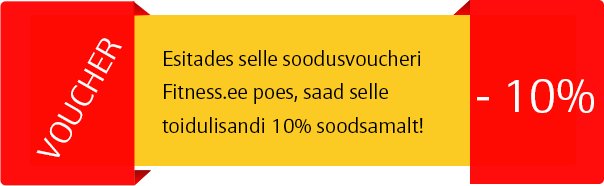
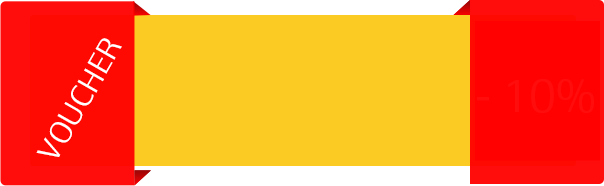
new stuff!!!

diff --git a/js/app.js b/js/app.js
@@ -196,7 +196,7 @@ var app = {
 				});
 				if (!localStorage.getItem('fitNotFirstTime')) {
 					app.downloadPics('categories', cats);
-					localStorage.setItem('fitNotFirstTime', true);
+					//localStorage.setItem('fitNotFirstTime', true);
 				}
 				
 			}, 'jsonp');
@@ -1048,11 +1048,13 @@ var app = {
 			   		$('#video').find('h3:first').html(exercise['name_' + lang]);
 			   		$('#video').find('.text_wrap').html(exercise['name_' + description]);
 			   	}
-				if (exercise.video && exercise.video != "0") {
-					$('#video').find('.video-container').html('<video id="video" height="41%" width="100%" controls="" preload="" autoplay="" poster="' + app.serverUrl + 'videos/' + exercise.id + '.png" onclick="this.play();" onload="this.play();"><source src="' + app.serverUrl + 'videos/' + exercise.id + '.mp4" poster="' + app.serverUrl + 'videos/' + exercise.id + '.png"></video>');
-				} else {
-					$('#video').find('.video-container').html('<video id="video" height="41%" width="100%" controls="" preload="" autoplay="" poster="' + app.serverUrl + 'videos/' + exercise.id + '.png" onclick="this.play();" onload="this.play();"><source src="' + app.serverUrl + 'videos/' + exercise.id + '.mp4" poster="' + app.serverUrl + 'videos/' + exercise.id + '.png"></video>');
-				}
+				if (exercise.video && exercise.video != "0") 
+					videoLink = sPath + 'videos/' + exercise + '.mp4';
+				else
+					videoLink = app.serverUrl + 'videos/' + exercise.id + '.mp4';
+					
+					$('#video').find('.video-container').html('<video id="video" height="41%" width="100%" controls="" preload="" autoplay="" poster="' + sPath + 'exercises/' + exercise.id + '.jpg' + '" onclick="this.play();" onload="this.play();"><source src="' + videoLink + '" poster="' + sPath + 'exercises/' + exercise.id + '.jpg' + '"></video>');
+					
 				
 			}, function(tx, results) {
 				console.error('Error in selecting test result');
@@ -1071,7 +1073,7 @@ var app = {
 		template = $('.item-template');
 		content1 = $('.items-container1');
 		content2 = $('.items-container2');
-		
+		downloadedVideos = [];
 		db.transaction(function(tx) {
 			query = 'SELECT id FROM EXERCISES WHERE video = "1"';
 			//console.log(query);
@@ -1079,7 +1081,7 @@ var app = {
 				var len = results.rows.length, i;
 				for (i = 0; i < len; i++) {
 					item = results.rows.item(i);
-					downloadedVideos.push(item.id);
+					downloadedVideos.push(parseInt(item.id));
 				}
 				
 				db.transaction(function(tx) {
@@ -1091,17 +1093,27 @@ var app = {
 						for (i = 0; i < len; i++) {
 							item = results.rows.item(i);
 							var exercises = JSON.parse(item.exercises);
-							dlExercises = 0;
+							var dlExercises = 0;
+							var exExercises = 0;
 							$.each(exercises, function(i, day) {
 								$.each(day, function(j, exercise) {
 									dlExercises = dlExercises+1;
+									if((downloadedVideos.indexOf(parseInt(exercise.id)) > -1)) {
+										exExercises = exExercises+1;
+									}
 								});
 							});
 							
 							template.find('.downloadtitle').html(item.name);
-				   			template.find('.downloadcircle').find('span').html('0/' + dlExercises);
+				   			template.find('.downloadcircle').find('span').html(exExercises + '/' + dlExercises);
 				   			template.find('img').attr('src', app.serverUrl + 'pics/categories/2.jpg');
-				   			template.find('h4').attr('data-id', item.id).attr('data-type', 'package');
+				   			template.find('.nobg_item').attr('data-id', item.id).attr('data-type', 'package');
+				   			if(exExercises == dlExercises)
+				   				template.find('.nobg_item').html('<img src="i/icon_ok.png" alt="">').removeClass('arrow');
+				   			else if(exExercises == 0 || exExercises == '0') 
+				   				template.find('.nobg_item').html('<h4>Alusta laadimist</h4>').addClass('arrow');
+				   			else
+				   				template.find('.nobg_item').html('<h4>Jätka laadimist</h4>').addClass('arrow');
 					   		content1.append(template.html());
 							
 						}
@@ -1116,9 +1128,10 @@ var app = {
 				});
 		   		
 		   		setTimeout(function() {
-			   		$('.items-container1, .items-container2').find('h4').click(function(e) {
+			   		$('.items-container1, .items-container2').find('.nobg_item').click(function(e) {
+			   			console.log($(this).data('type') + ' ja ' + $(this).data('id'));
 			   			app.downloadExerciseVideos($(this).data('type'), $(this).data('id'));
-				   		$(this).html('Laen..');
+				   		$(this).html('<img src="i/icon_pause.png" alt="">').removeClass('arrow');
 			   		});
 		   		}, 800);
 				
@@ -1142,7 +1155,13 @@ var app = {
 					template.find('.downloadtitle').html(item.name);
 		   			template.find('.downloadcircle').find('span').html(result.total + '/' + item.total);
 		   			template.find('img').attr('src', app.serverUrl + 'pics/categories/' + item.cat_id + '.jpg');
-		   			template.find('h4').attr('data-id', item.cat_id).attr('data-type', 'category');
+		   			template.find('.nobg_item').attr('data-id', item.cat_id).attr('data-type', 'category');
+		   			if(result.total == item.total)
+		   				template.find('.nobg_item').html('<img src="i/icon_ok.png" alt="">').removeClass('arrow');
+		   			else if(result.total == 0 || result.total == '0') 
+		   				template.find('.nobg_item').html('<h4>Alusta laadimist</h4>').addClass('arrow');
+		   			else
+		   				template.find('.nobg_item').html('<h4>Jätka laadimist</h4>').addClass('arrow');
 			   		content2.append(template.html());
 					
 				}, function(tx, results) {
@@ -1164,6 +1183,7 @@ var app = {
 		//downloadedVideos = localStorage.getObject('fitExerciseVideos');
 		//if(!downloadedVideos)
 		//	downloadedVideos = [];
+		var _exercises = [];
 		if(type == 'package') {
 			db.transaction(function(tx) {
 				query = 'SELECT * FROM TRAININGS WHERE id = ' + id + '';
@@ -1174,10 +1194,11 @@ var app = {
 					$.each(exercises, function(i, day) {
 						$.each(day, function(j, exercise) {
 							//if not downloaded
-							app.downloadExerciseVideo(exercise.id, type, id);
+							_exercises.push(exercise.id);
 							
 						});
 					});
+					app.downloadExerciseVideo(_exercises, 'package', id);
 				}, function(tx, results) {
 					console.error('Error in selecting test result');
 					console.log(tx);
@@ -1195,9 +1216,10 @@ var app = {
 				tx.executeSql(query, [], function(tx, results) {
 					var len = results.rows.length, i;
 					for (i = 0; i < len; i++) {
-						item = results.rows.item(i);
-						app.downloadExerciseVideo(item.id, type, id);
+						exercise = results.rows.item(i);
+						_exercises.push(exercise.id);
 					}
+					app.downloadExerciseVideo(_exercises, 'category', id);
 				}, function(tx, results) {
 					console.error('Error in selecting test result');
 					//console.log(tx);
@@ -1211,9 +1233,8 @@ var app = {
 		}
 			
 	},
-	downloadExerciseVideo: function(exercise, type, id) {
-		var uri = encodeURI(app.serverUrl + 'videos/' + exercise + '.mp4');
-		console.log(exercise + ' ja ' + type + ' ja ' + id);
+	downloadExerciseVideo: function(exercises, type, id) {
+	
 		if(deviceMode) {
 		
 			window.requestFileSystem(LocalFileSystem.PERSISTENT, 0, function onFileSystemSuccess(fileSystem) {
@@ -1223,29 +1244,43 @@ var app = {
 		            sPath = fileEntry.fullPath.replace("dummy.html","");
 		            var fileTransfer = new FileTransfer();
 		            fileEntry.remove();
-		            
-		            //var uri = encodeURI(app.serverUrl + 'pics/' + module + '/' + pic + '.jpg');
-		            fileTransfer.download(
-		                uri,
-		                sPath + 'videos/' + exercise + '.mp4',
-		                function(theFile) {
-		                    console.log("download complete: " + theFile.toURL());
-		                    downloadedVideos.push(exercise.id);
-					        db.transaction(function(tx) {
-					        	var statement = 'UPDATE EXERCISES SET video = "1" WHERE id = ' + exercise;
-							   	tx.executeSql(statement);
-					        }, function(error) {
-								console.error('Error in selecting test result');
-								//console.log(error);
-							});
-		                    //showLink(theFile.toURL());
-		                },
-		                function(error) {
-		                    console.log("download error source " + error.source);
-		                    console.log("download error target " + error.target);
-		                    console.log("upload error code: " + error.code);
-		                }
-		            );
+		            $.each(exercises, function(i, exercise) {
+		            	var uri = encodeURI(app.serverUrl + 'videos/' + exercise + '.mp4');
+			            fileTransfer.download(
+			                uri,
+			                sPath + 'videos/' + exercise + '.mp4',
+			                function(theFile) {
+			                    console.log("download complete: " + theFile.toURL());
+			                    db.transaction(function(tx) {
+						        	var statement = 'UPDATE EXERCISES SET video = "1" WHERE id = ' + exercise;
+								   	tx.executeSql(statement);
+								   	//downloadedVideos.push(exercise.id);
+									$('.toscroll').find('.downloadgroup').find('.nobg_item').each(function(j, element) {
+														   	
+									   if($(element).data('id') == id && $(element).data('type') == type) {
+										   
+										   stats_span = $(element).parent().parent().find('.downloadcircle').find('span');
+										   var numbers = stats_span.html().split('/');
+										   nr1 = parseInt(numbers[0]);
+										   stats_span.html((nr1+1)+'/'+numbers[1]);
+										   
+										   if((nr1+1) == parseInt(numbers[1])) {
+											   $(element).html('<img src="i/icon_ok.png" alt="">');
+										   }
+									   }	
+								   	});
+								}, function(error) {
+									console.error('Error in selecting test result');
+									//console.log(error);
+								});
+			                },
+			                function(error) {
+			                    console.log("download error source " + error.source);
+			                    console.log("download error target " + error.target);
+			                    console.log("upload error code: " + error.code);
+			                }
+			            );
+			        });
 		        }, function(e) {
 				    console.log(e);
 			    });

diff --git a/css/main.css b/css/main.css
@@ -705,13 +705,29 @@ background: radial-gradient(ellipse at center,  rgba(255,255,255,0.71) 0%,rgba(2
 
 
 #login .tagasibtn{
-	background: #999;
+	background: rgb(250,203,36);
+	background: -moz-linear-gradient(top,  rgba(250,203,36,1) 0%, rgba(250,203,36,1) 33%, rgba(214,167,0,1) 67%);
+	background: -webkit-gradient(linear, left top, left bottom, color-stop(0%,rgba(250,203,36,1)), color-stop(33%,rgba(250,203,36,1)), color-stop(67%,rgba(214,167,0,1)));
+	background: -webkit-linear-gradient(top,  rgba(250,203,36,1) 0%,rgba(250,203,36,1) 33%,rgba(214,167,0,1) 67%);
+	background: linear-gradient(to bottom,  rgba(250,203,36,1) 0%,rgba(250,203,36,1) 33%,rgba(214,167,0,1) 67%);
 	padding: 9% 28%;
 	text-shadow: 1px 1px 0 rgba(255, 255, 255, 0.5);
 }
 #login .tagasibtn span{
 	color: #000;
 }
+ #login .tagasibtn span:after {
+  background: url("../i/arrowback.png") no-repeat scroll 0 0 transparent;
+  background-size: 100% auto;
+  content: "";
+  height: 75%;
+  left: 10%;
+  position: absolute;
+  width: 10%;
+  top: 32%;
+}
+
+
 
 #frontpage .acc.active, #login .acc.active{
 	background: rgb(214,167,0);
@@ -1934,7 +1950,7 @@ div.icon_select {
 }
 
 #treenerpakkumised .box33.active {
-    background: none repeat scroll 0 0 #444;
+    background: none repeat scroll 0 0 #777;
 }
 
 
@@ -1945,6 +1961,10 @@ div.icon_select {
   width: 29%;
   border-radius: 6px 6px 6px 6px;
   padding: 0 0 5px;
+  	
+	-webkit-transition: all 0.20s ease;
+	-moz-transition: all 0.20s ease;
+	transition: all 0.20s ease;
 }
 
 .box33.selected{
@@ -2004,9 +2024,14 @@ div.icon_select {
 	position: relative;
 }
 
-
-.box33.active{
-	background: #222;
+.details.active{
+	background: #404040;
+}
+.box33.active, .box33:active, .box33:hover{
+	background: #333;
+	-webkit-transform: scale(0.85);
+	-moz-transform: scale(0.85);
+	transform: scale(0.85);
 }
 
 .details span:after {
@@ -2046,6 +2071,9 @@ div.icon_select {
 	
 }
 
+.buybtn.active, .buybtn:hover, .buybtn:active{
+	background: rgb(69,67,67);
+}
 
 .buybtn.slideIn{
 	top: 0;
@@ -2826,6 +2854,24 @@ div.icon_select {
 	z-index: 5000;
 }
 
+#voucher{
+	background: url(../i/voucher.png)no-repeat center center transparent;
+	background-size: 100% 100%;
+	width: 100%;
+	position: relative;
+}
+#voucher div {
+  font-size: 14px;
+  line-height: 18px;
+  padding: 24px 25%;
+}
+#voucher span {
+  color: #FFFFFF;
+  font-size: 26px;
+  position: absolute;
+  right: 3%;
+  top: 33%;
+}
 
 #ajaxoverlay h2 {
   color: #FFFFFF;
@@ -3883,5 +3929,13 @@ div.icon_select {
 	.langselector a{
 		padding: 0 2px;
 		font-size: 12px;
+	}
+	
+	#voucher span {
+	  color: #FFFFFF;
+	  font-size: 21px;
+	  position: absolute;
+	  right: 3%;
+	  top: 36%;
 	}
 }

diff --git a/js/main.js b/js/main.js
@@ -117,24 +117,31 @@ var nolevel = false;
 
 
 
+
 jQuery(window).resize(function ($) {
 
 	offset = jQuery('.topbar').height();
 	jQuery('.centered').css('top', offset + 'px');
+	//jQuery('.page-wrap').css('height', Number(jQuery(aligner).height() + plus) +  'px');
 
+	//console.log(jQuery(window).width() + 'px');
+	
+	////console.log( window.outerHeight, jQuery(window).height() );
 });
 
 
 function resizeby(_this, _plus) {
 
 	me = jQuery(_this + ' .me').height();
+
 	//wind = Number(wind) - Number(iofsett);
 	var toscrollheight = Number(wind - (offset + me + bbar));
-
+	////console.log(newheight , toscrollheight);
 	
 	//alert(agentID);
 	
 	jQuery('.page-wrap').css('height', wind + 'px');
+	//setTimeout(function () {
 	
 		if(_this == '#homepage'){
 			var off43 = 0;
@@ -159,9 +166,11 @@ function resizeby(_this, _plus) {
 
 		nolevel = false;
 		goingback = false;
-
+	//}, 100);
 	aligner = _this;
 	plus = _plus;
+
+	//alert( jQuery(window).height() );
 }
 
 function reposition() {

diff --git a/index.html b/index.html
@@ -71,7 +71,11 @@
 						<h2>33 €</h2>
 					
 						<p></p>
-						<img class="voucher" style="display:none;" src="i/voucher.png" alt=""/>
+						<div id="voucher">
+							<div>Lorem ipsum dolor sit amet. Lorem ipsum, dolor sit amet orem ipsum dolor sit amet. </div>
+							<span>-10%</span>
+						</div>
+						<!-- <img class="voucher" style="display:none;" src="i/voucher.png" alt=""/> -->
 						<a href="javascript:void(0);" class="buybtn">Vali</a>
 						
 					</section>
